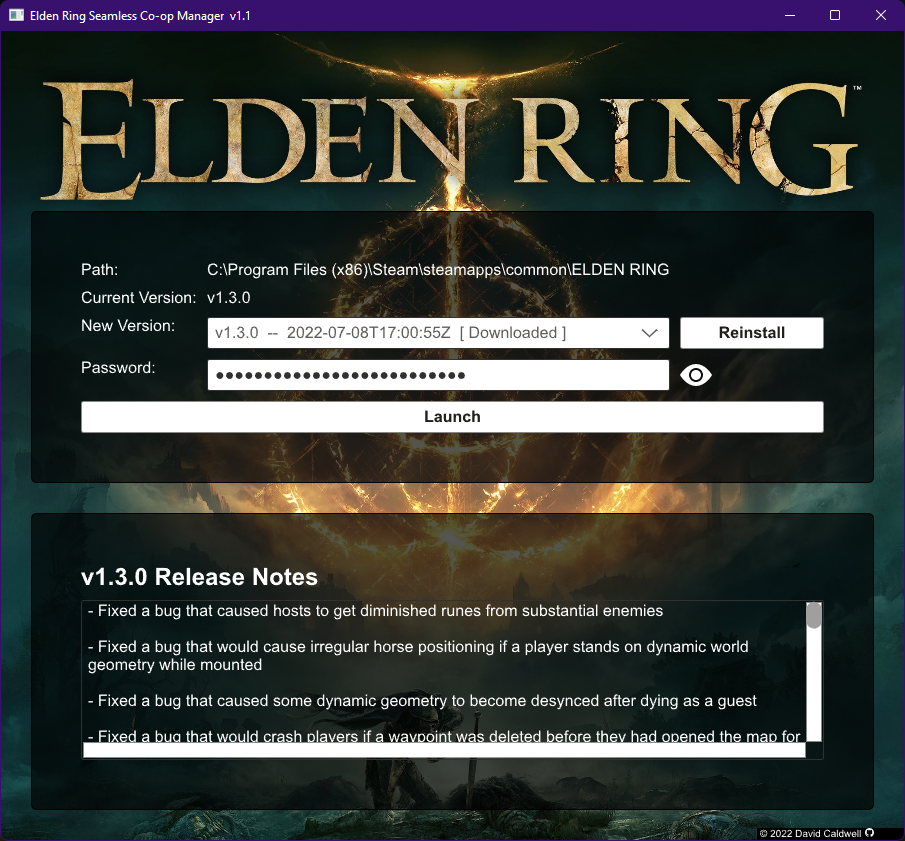
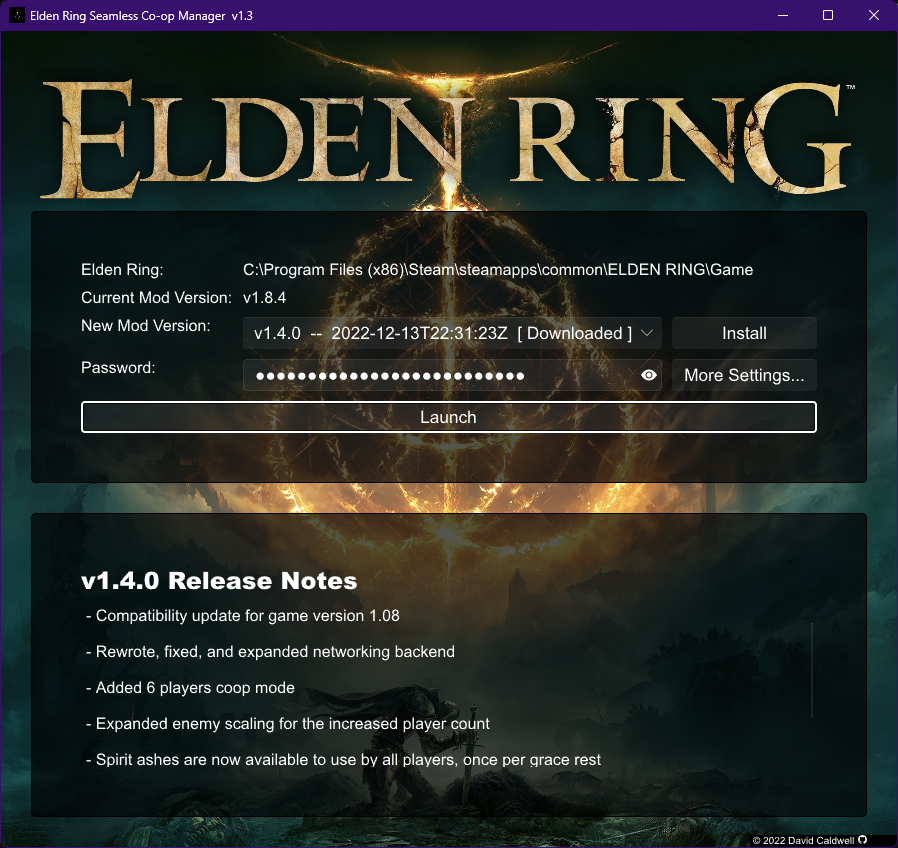
README.md: Update main window screenshot and add one for the settings window

diff --git a/README.md b/README.md
@@ -15,6 +15,10 @@ Screenshot
 
 ![Screenshot](assets/screenshot.png)
 
+### You can edit the mod's settings:
+
+![Screenshot](assets/screenshot-settings.png)
+
 [1]: https://github.com/LukeYui/EldenRingSeamlessCoopRelease
 [2]: https://github.com/LukeYui/EldenRingSeamlessCoopRelease/releases
 [3]: https://github.com/caldwell/erscom/releases/latest
